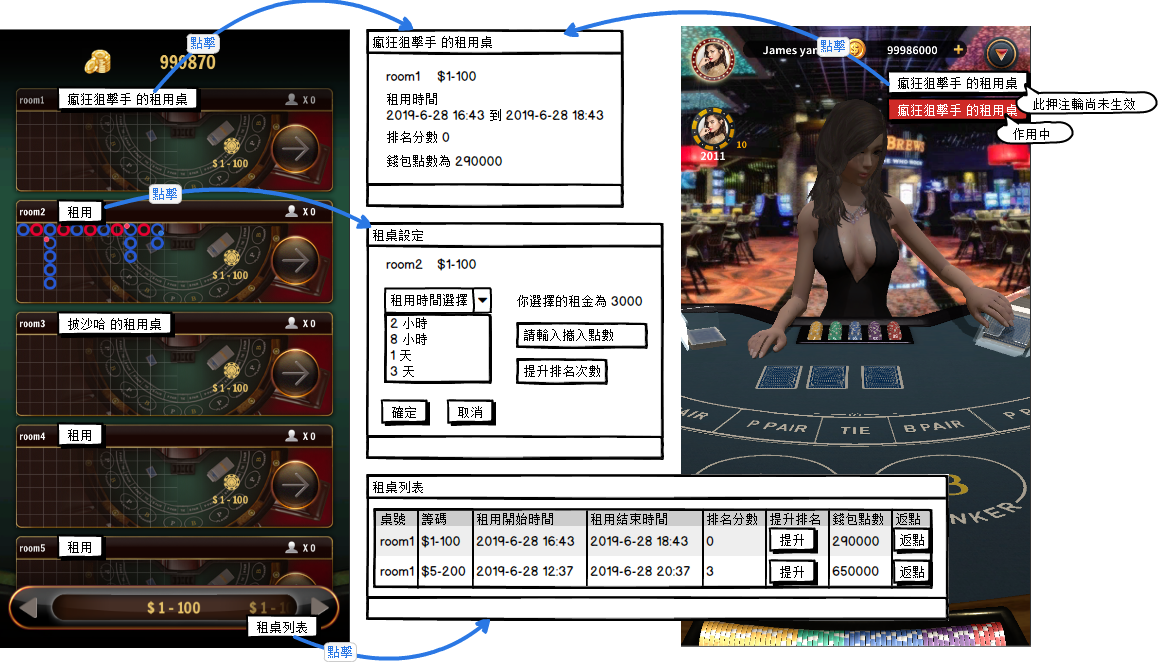
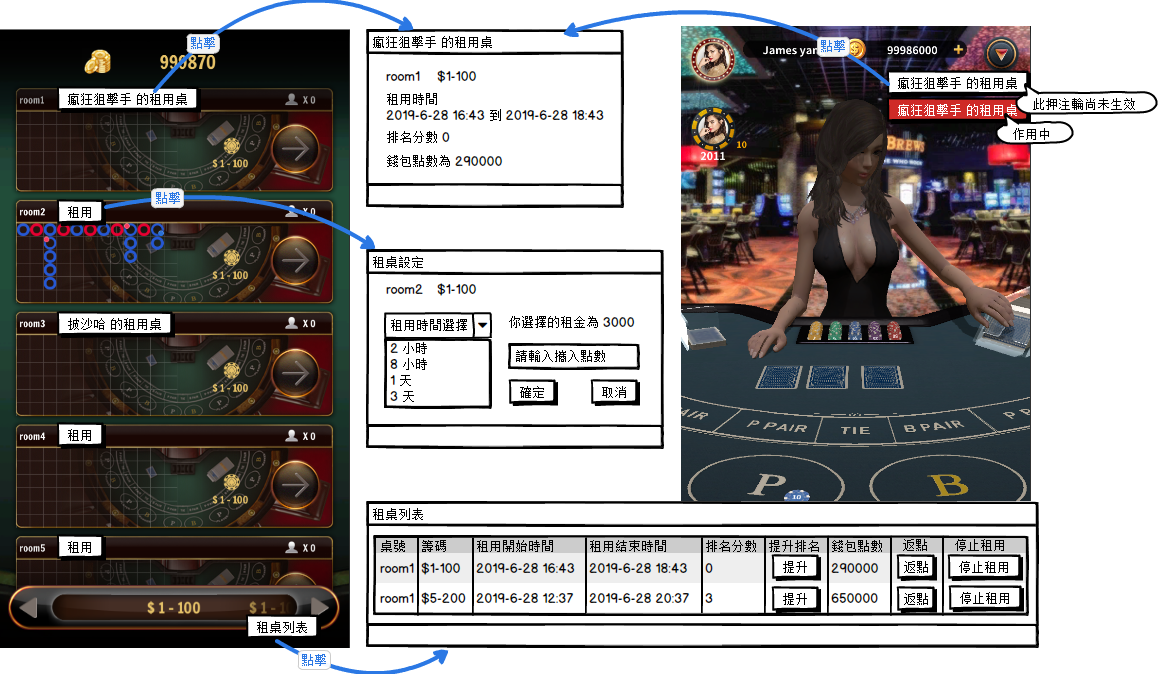
no message

diff --git a/Baccarat3D/租桌.md b/Baccarat3D/租桌.md
@@ -6,11 +6,12 @@
 	- 閒對總押注
 	- 莊對總押注
 
-籌碼                        | 限紅
-----------------------------|------------------------
-100,500,1000,2500,5000      | 5000 * 2 * 10
-500,1000,2500,5000,10000    | 10000 * 2 * 10
-1000,2500,5000,10000,20000  | 20000 * 2 * 10
+籌碼                                    | 限紅
+----------------------------------------|------------------------
+100,500,1000,2500,5000                  | 5000 * 2 * 10
+1000,5000,10000,50000,100000            | 10000 * 2 * 10
+10000,50000,100000,500000,1000000       | 1000000 * 2 * 10
+100000,500000,1000000,5000000,10000000  | 10000000 * 2 * 10
 
 1. **租桌額外限紅**
 	- 桌主需有足夠的點數才可以賠付, 否則不可押注
@@ -20,26 +21,42 @@
 	- 未租用桌可選擇租桌, 租桌除了租金外, 還需帶點數進去遊戲桌內 (不可遊戲中花掉), 供玩家輸贏
 	- 每局遊戲結算的錢都會進入這個桌子的錢包中
 	
-籌碼                        | 租用時間
-----------------------------|------------------------
-100,500,1000,2500,5000      | 2h,8h,1d,3d
-500,1000,2500,5000,10000    | 2h,8h,1d,3d
-1000,2500,5000,10000,20000  | 2h,8h,1d,3d
+籌碼                                    | 租用時間
+----------------------------------------|------------------------
+100,500,1000,2500,5000                  | 2h,8h,1d,3d
+1000,5000,10000,50000,100000            | 2h,8h,1d,3d
+10000,50000,100000,500000,1000000       | 2h,8h,1d,3d
+100000,500000,1000000,5000000,10000000  | 2h,8h,1d,3d
+
+籌碼                                    | 每小時的租金
+----------------------------------------|------------------------
+100,500,1000,2500,5000                  | 100
+1000,5000,10000,50000,100000            | 1000
+10000,50000,100000,500000,1000000       | 10000
+100000,500000,1000000,5000000,10000000  | 100000
 	
 3. **租桌期間**
 	- 租桌後, 下一次押注輪才套用租桌規則
 	- 時間到或錢包低於最小租桌點數, 則牌局結束
 	- 時間到的情況下, 目前這次押注輪的結算還是算桌主的
 	
-籌碼                        | 最小租桌點數
-----------------------------|------------------------
-100,500,1000,2500,5000      | 5000 * 2 * 10 * 5
-500,1000,2500,5000,10000    | 10000 * 2 * 10 * 5
-1000,2500,5000,10000,20000  | 20000 * 2 * 10 * 5
+籌碼                                    | 最小租桌點數
+----------------------------------------|------------------------
+100,500,1000,2500,5000                  | 5000 * 2 * 10 * 5
+1000,5000,10000,50000,100000            | 10000 * 2 * 10 * 5
+10000,50000,100000,500000,1000000       | 1000000 * 2 * 10 * 5
+100000,500000,1000000,5000000,10000000  | 10000000 * 2 * 10 * 5
 	
 4. **租桌列表**
 	- 租桌列表顯示目前所有尚未完成返點的已租賃的桌子
-	- 桌主可提升租桌的排名分數, 讓分數高的租桌排在前面, 增加曝光度
+	- 桌主可提升租桌的排名分數 (提升排名一次加一分), 讓分數高的租桌排在前面, 增加曝光度
 	- 牌局已結束的桌子, 可以手動將桌子的錢包返點回桌主身上
+
+籌碼                                    | 提升排名費用
+----------------------------------------|------------------------
+100,500,1000,2500,5000                  | 100
+1000,5000,10000,50000,100000            | 100
+10000,50000,100000,500000,1000000       | 100
+100000,500000,1000000,5000000,10000000  | 100
 	
 <br /><img src="https://raw.githubusercontent.com/s9256001/cegame/master/Baccarat3D/images/%E7%A7%9F%E7%94%A8.png" width="1000" height="auto" />
